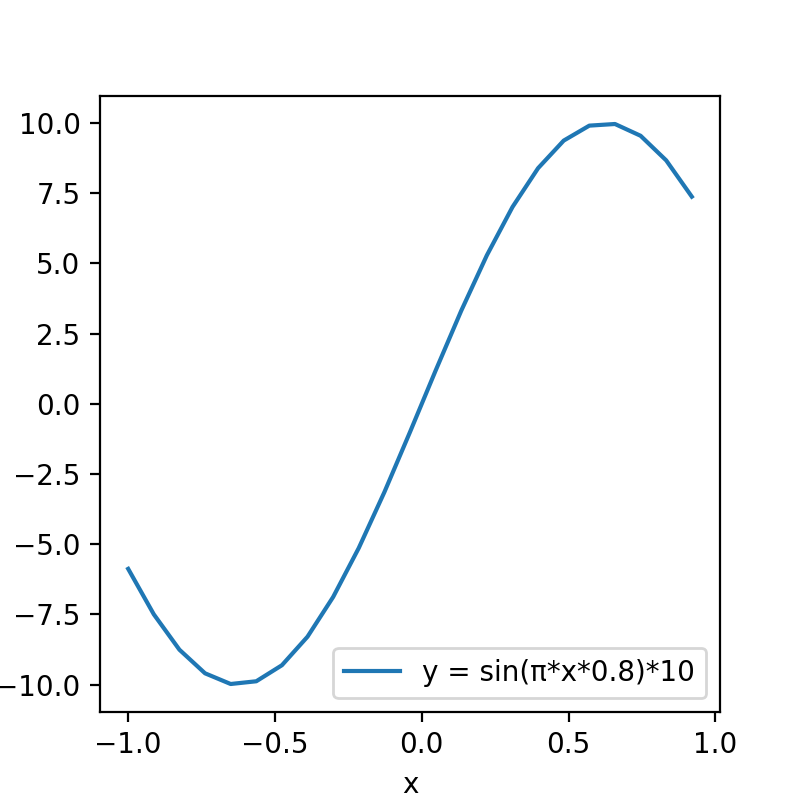
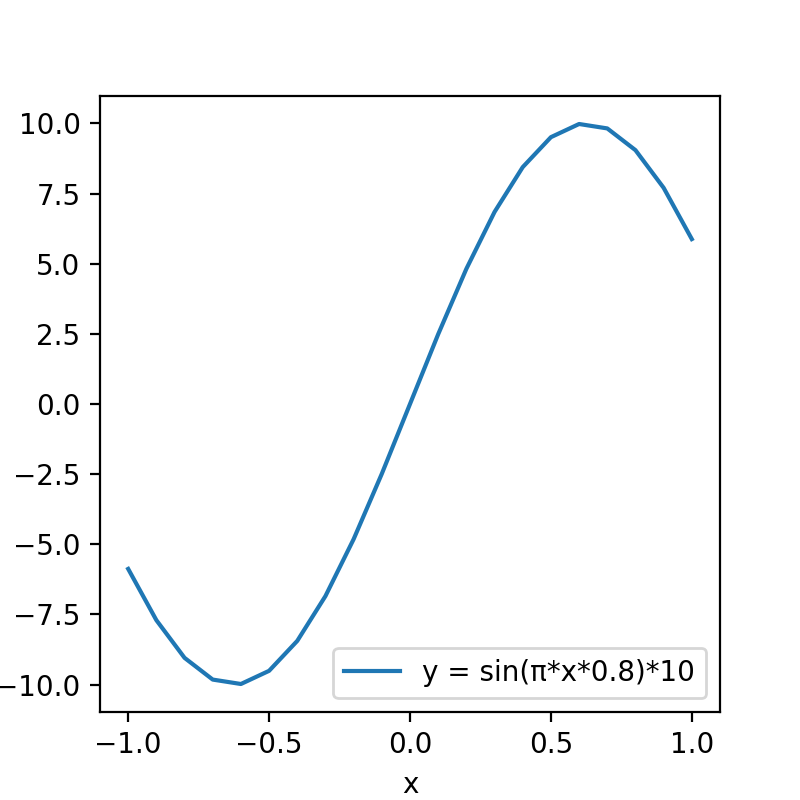
修正後

diff --git a/ex1/ex1_1/ex1_1.py b/ex1/ex1_1/ex1_1.py
@@ -20,7 +20,7 @@ if __name__ == '__main__':
     ax.set_xlabel("x", fontsize = 10)
     ax.set_ylabel("y", fontsize = 10)
 
-    x = np.arange(-1, 1, np.pi/36)
+    x = np.arange(-1.0, 1.1, 0.1)
     ax.plot(x, true_function(x), label = "y = sin(π*x*0.8)*10")
 
     ax.legend(loc = "lower right")
